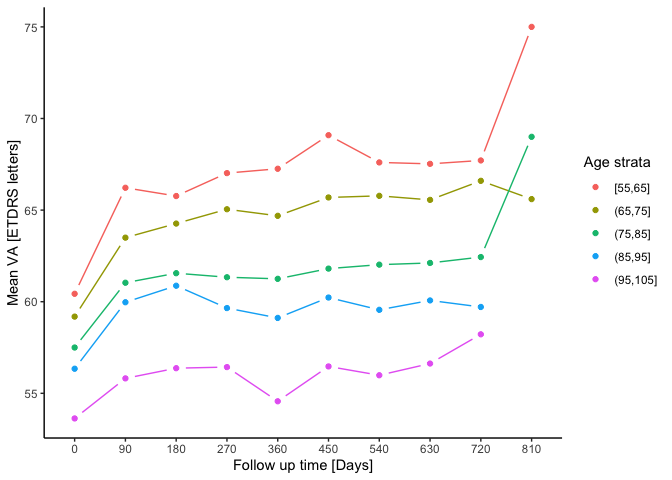
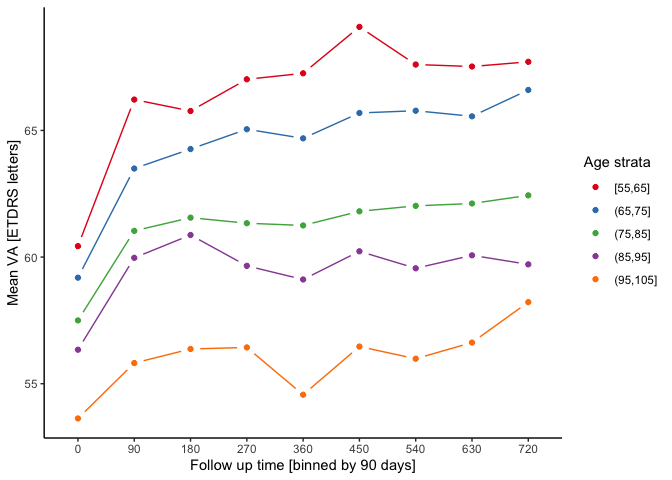
update figure readme - made a bit nicer

diff --git a/README.md b/README.md
@@ -305,17 +305,19 @@ amd_aggr <-
     age_cut10 = cut_width(BaselineAge, 10),
     days_cut90 = cut_width(FollowupDays, 90, labels = seq(0, 810, 90))
   ) %>%
-  summarise(mean_va = mean(VA_ETDRS_Letters))
+  summarise(mean_va = mean(VA_ETDRS_Letters)) %>%
+  filter(as.integer(days_cut90) <= 9)
 ```
 
 </details>
 
 ``` r
 p <-
-  ggplot(amd_aggr, aes(days_cut90, mean_va, color = age_cut10)) +
+  ggplot(amd_aggr, aes(days_cut90, mean_va, color = age_cut10)) + 
+  scale_color_brewer(palette = "Set1") +
   theme_classic() +
   labs(
-    x = "Follow up time [Days]", y = "Mean VA [ETDRS letters]",
+    x = "Follow up time [binned by 90 days]", y = "Mean VA [ETDRS letters]",
     color = "Age strata"
   )
 ```
